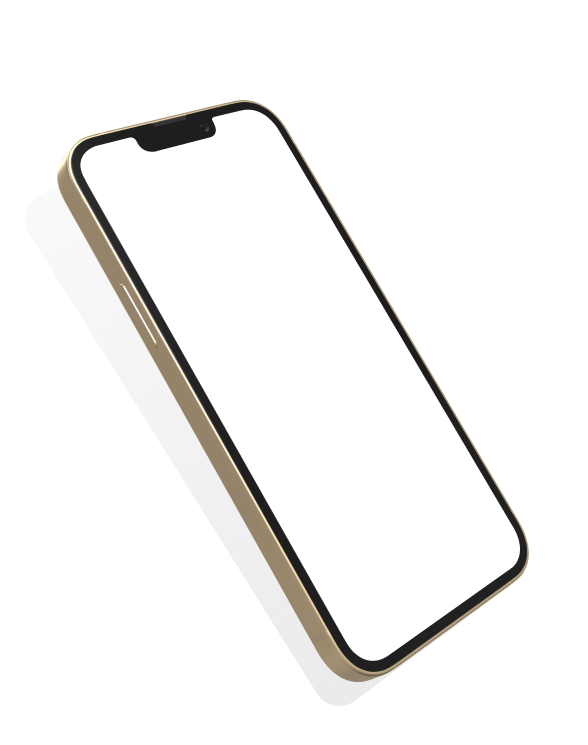
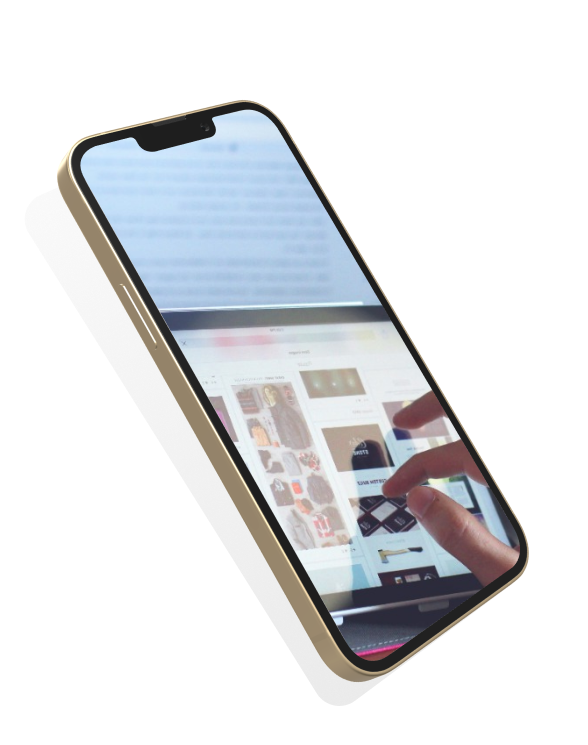
complete slide show

Changed region(s): [[0.1224, 0.1235, 0.8878, 0.8953]]

diff --git a/script.js b/script.js
@@ -1,6 +1,9 @@
 document.addEventListener("DOMContentLoaded", function() {
     const slides = document.querySelectorAll('.img-content img');
+    const prevBtn = document.querySelector('.prev-btn');
+    const nextBtn = document.querySelector('.next-btn');
     let currentIndex = 0;
+    let slideInterval;
 
     function goToSlide(index) {
         // Hide all slides
@@ -23,8 +26,26 @@ document.addEventListener("DOMContentLoaded", function() {
     }
 
     function startSlideShow() {
-        setInterval(nextSlide, 2000); // Automatically slide every 2 seconds
+        slideInterval = setInterval(nextSlide, 2000); // Automatically slide every 2 seconds
     }
 
+    function stopSlideShow() {
+        clearInterval(slideInterval);
+    }
+
+    // Event listeners for next and previous buttons
+    nextBtn.addEventListener('click', function() {
+        nextSlide();
+        stopSlideShow();
+        startSlideShow(); // Restart automatic slide show after manual navigation
+    });
+
+    prevBtn.addEventListener('click', function() {
+        prevSlide();
+        stopSlideShow();
+        startSlideShow(); // Restart automatic slide show after manual navigation
+    });
+
+    // Start automatic slide show
     startSlideShow();
 });

diff --git a/index.html b/index.html
@@ -13,13 +13,16 @@
                 <img src="Carite.png" alt="">
                 <div class="deco"></div>
                 <div class="img-content">
+                    <img src="phone (2).png" alt="work-image">
                     <img src="phone.png" alt="work-image">
                     <img src="laptop.png" alt="work-image">
-                    <img src="phone.png" alt="work-image">
-                    <img src="laptop.png" alt="work-image">
+                    <img src="laptop 02.png" alt="work-image">
                 </div> 
             </div>
-            
+            <div class="cta">
+                <button class="prev-btn"><img class="icon" src="prev.svg" alt=""></button>
+                <button class="next-btn"><img class="icon" src="next.svg" alt=""></button>
+            </div>
         </div>
     </section>
     <script src="script.js"></script>

diff --git a/style.css b/style.css
@@ -21,7 +21,7 @@ body {
     position: relative;
     width: 100%;
     margin: auto;
-    top: 30%;
+    top: 25%;
 }
 
 .work-name {
@@ -54,4 +54,21 @@ body {
     display: block;
 }
 
+button {
+    border: none;
+}
 
+.cta {
+    display: flex;
+    justify-content: space-between;
+    position: absolute;
+    top: 50%;
+    width: 100%;
+    max-width: 1200px;
+    margin: auto;
+    border: none;
+}
+
+.icon{
+    border-radius: 50px;
+}
